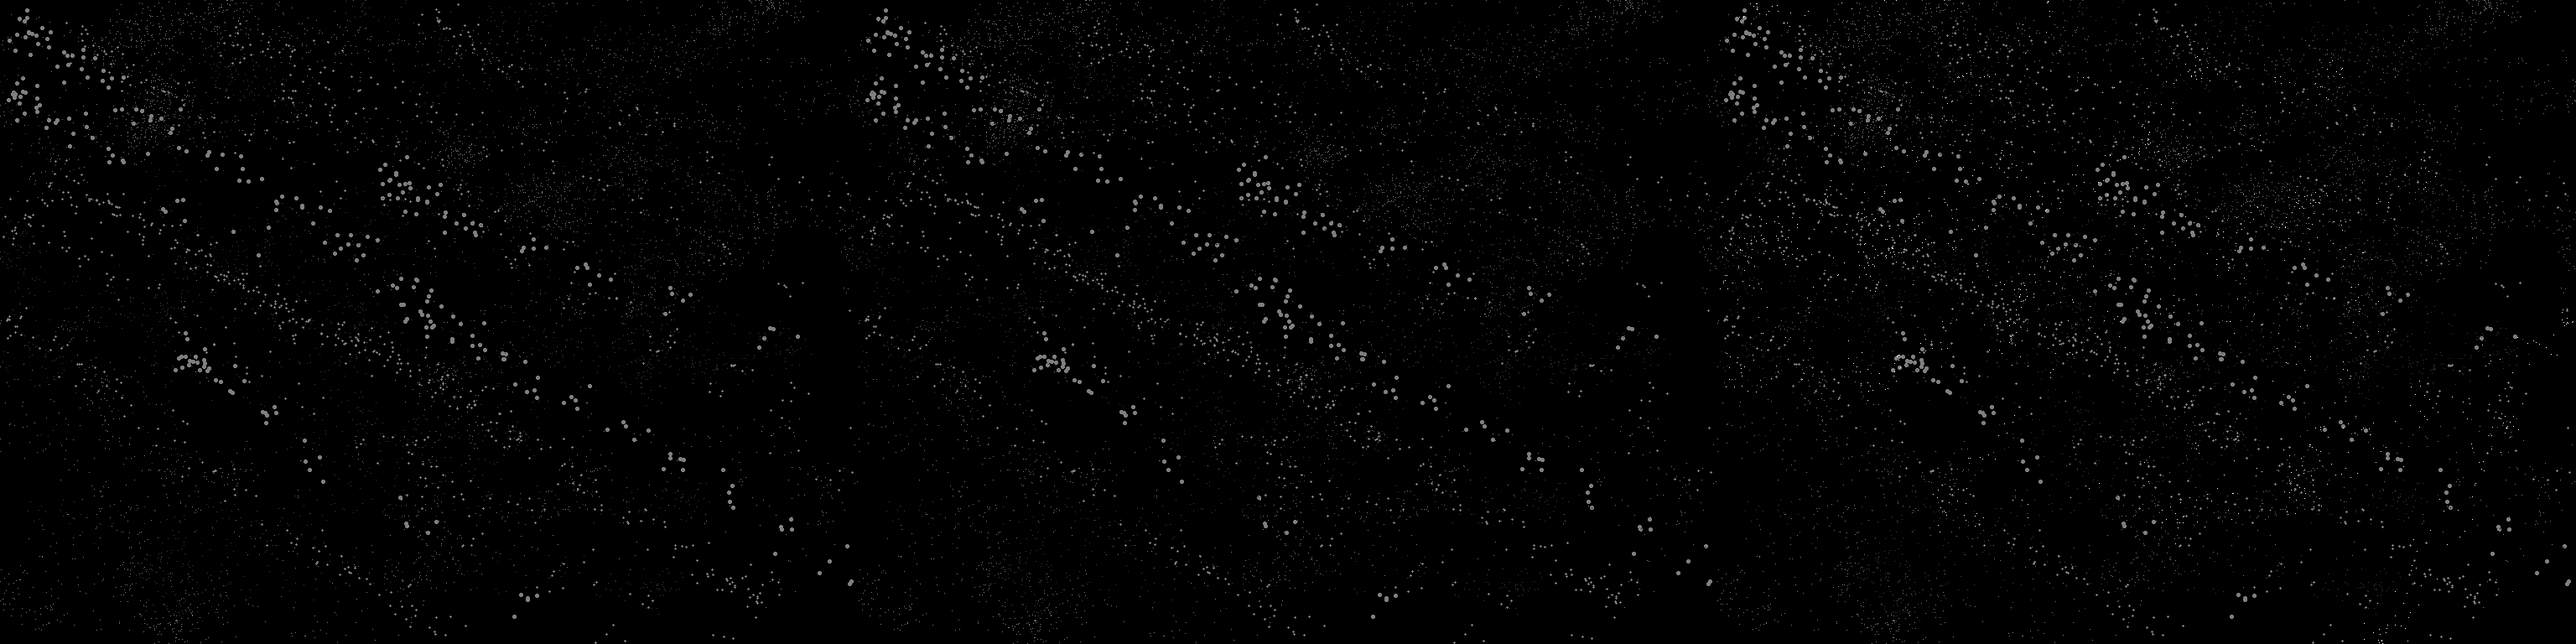
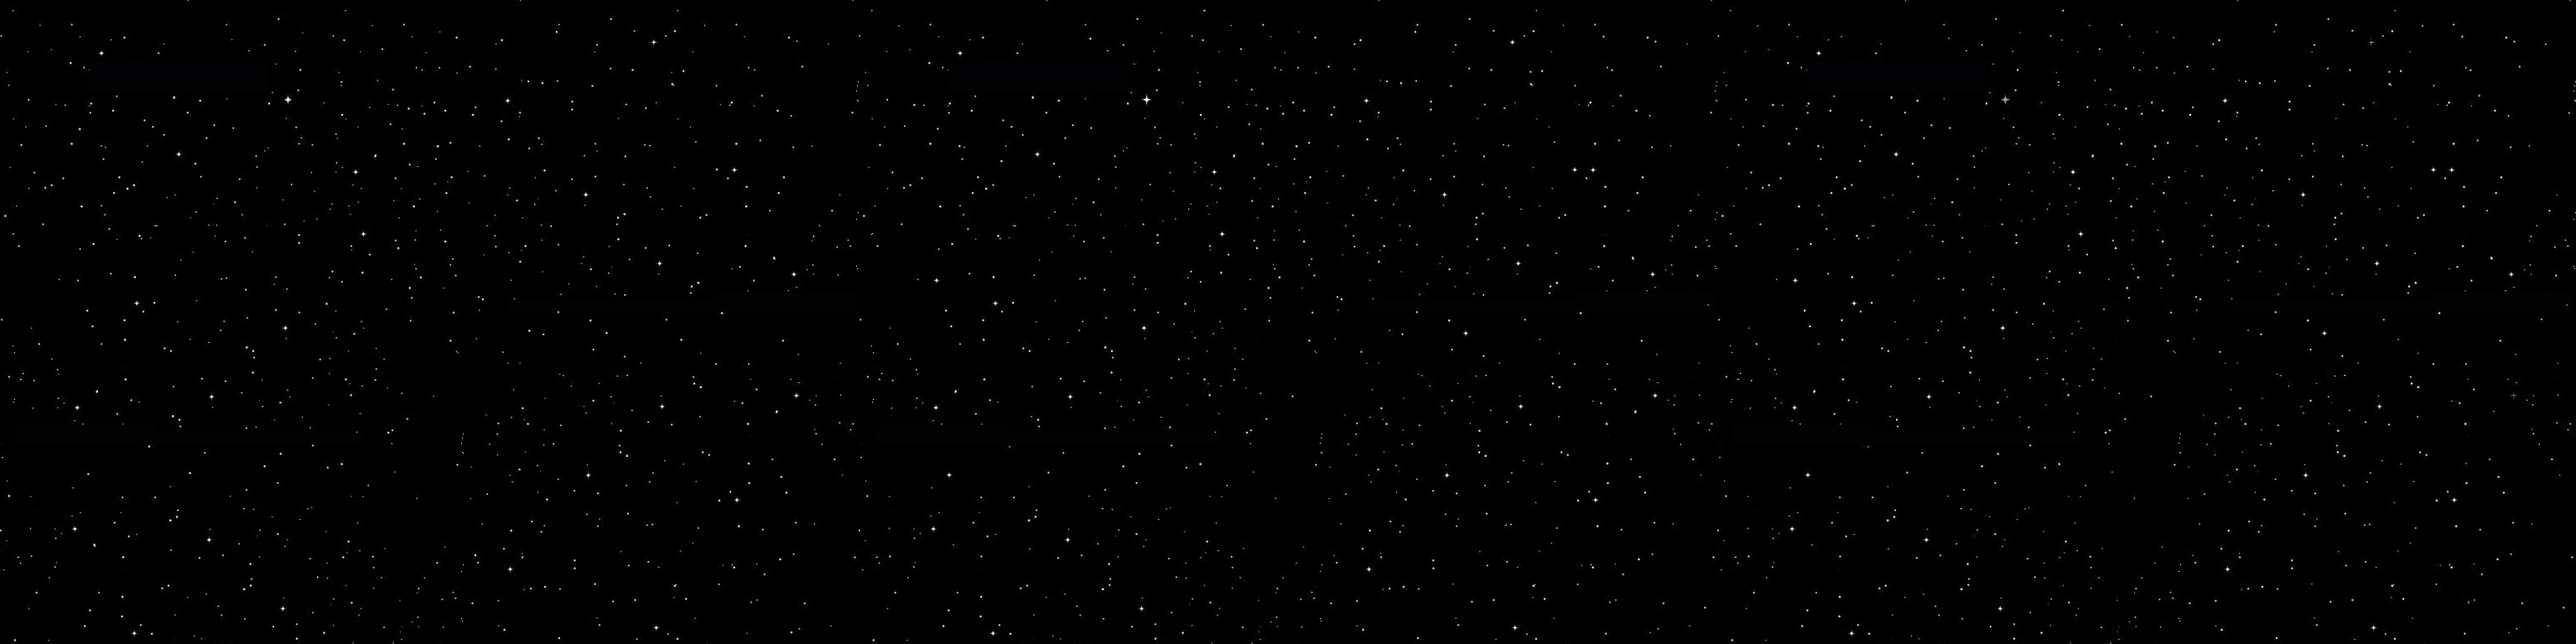
fix: better stars

diff --git a/src/DemoGame/DemoGame.h b/src/DemoGame/DemoGame.h
@@ -200,7 +200,7 @@ public:
     const std::string& bgfile = "assets/Backgrounds/stars-sheet.png";
     background->addComponent<PositionComponent>(0, 0);
     background->addComponent<TextureComponent>(bgfile);
-    background->addComponent<SpriteComponent>(bgfile, 1024, 768, 1, 3, 500);
+    background->addComponent<SpriteComponent>(bgfile, 1024, 768, 1, 3, 1500);
     background->addComponent<BackgroundComponent>(bgfile);
   }
 };
